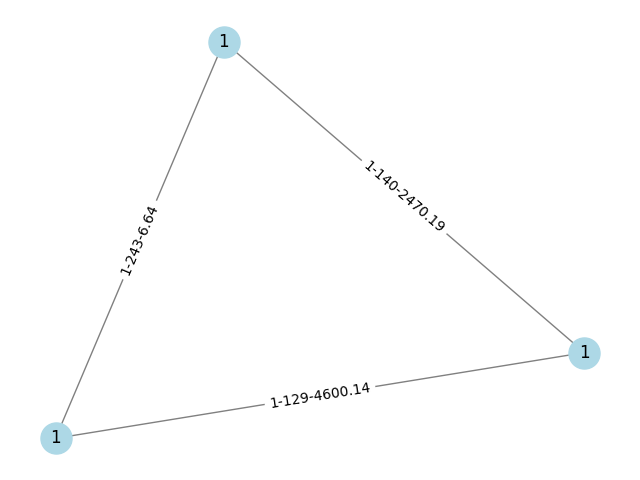
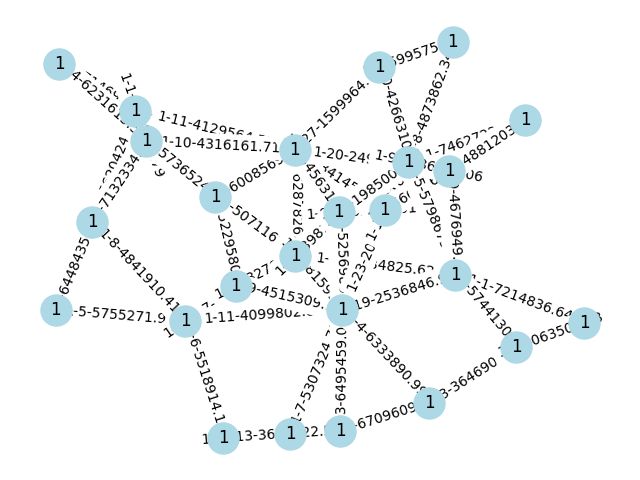
sync

diff --git a/src/optimizer/solver.py b/src/optimizer/solver.py
@@ -37,6 +37,13 @@ class LinearSolver():
                 name=f'c_{edge}'
                 )
             self.model.addConstr(self.c[edge] >= 0)
+        # add edge capacity variables
+        self.C = {}
+        for edge in self.task.topo.net.edges:
+            self.C[edge] = self.model.addVar(
+                vtype=var_type,
+                name=f'C_{edge}'
+                )
             
         pairs = self.task.pairs
         self.f = {}
@@ -74,8 +81,7 @@ class LinearSolver():
             # entanglement generation
             edge_num = self.task.topo.net.number_of_edges(i, j)
             for key in range(edge_num):
-                capacity = self.task.topo.net[i][j][key]['capacity']
-                self.I[in_pair] += self.c[(i, j, key)] * capacity
+                self.I[in_pair] += self.C[(i, j, key)] 
             
             # in-flows from other pairs
             for v in self.task.topo.net.nodes:
@@ -83,7 +89,7 @@ class LinearSolver():
                     out_pair1 = (i, v) if (i, v) in self.task.pairs else (v, i)
                     out_pair2 = (v, j) if (v, j) in self.task.pairs else (j, v)
                     self.I[in_pair] += swap_prob * 0.5 * (self.f[(out_pair1, in_pair)] + self.f[(out_pair2, in_pair)])
-    
+
         # equal contribution to swap
         for in_pair in self.task.pairs:
             i, j = in_pair
@@ -104,22 +110,23 @@ class LinearSolver():
         for pair in self.task.pairs:
             self.flow_conserv[pair] = self.I[pair] - self.O[pair]
 
-    def add_resource_constr(self, channel_mem: bool=True):
+    def add_resource_constr(self):
         m = {node: 0 for node in self.task.topo.net.nodes}
         for edge in self.task.topo.net.edges:
             i, j, k = edge
-            if channel_mem:
-                # one memory cell per channel
-                mem_ratio = 1
-            else:
-                # shared memory among channels
-                mem_ratio = self.task.topo.net[i][j][k]['capacity']
-            m[i] += self.c[edge] * mem_ratio
-            m[j] += self.c[edge] * mem_ratio
+            m[i] += self.C[edge]
+            m[j] += self.C[edge]
 
         for node in self.task.topo.net.nodes:
             self.model.addConstr(
                 self.m[node] >= m[node]
+            )
+
+        for edge in self.task.topo.net.edges:
+            i, j, k = edge
+            capacity = self.task.topo.net[i][j][k]['cap_per_channel']
+            self.model.addConstr(
+                self.C[edge] <= self.c[edge] * capacity
             )
 
     def add_budget_def(self):

diff --git a/src/network/ground.py b/src/network/ground.py
@@ -65,7 +65,7 @@ class GroundNetTopo(Topology):
             length = geodesic(
                 (self.net.nodes[src]['Latitude'], self.net.nodes[src]['Longitude']),
                 (self.net.nodes[dst]['Latitude'], self.net.nodes[dst]['Longitude'])
-            ).km
+            ).km / 100
             nx.set_edge_attributes(self.net, {(src, dst, key): {'length': length}})
 
     def set_node_capacity(self, capacity: int = 100):
@@ -87,7 +87,7 @@ class GroundNetTopo(Topology):
             length = d['length']
             prob_succ = (1 - p_loss_init) * np.power(10, - length * p_loss_length / 10)
             capacity = self.light_freq * prob_succ
-            values[(u, v, k)] = {'capacity': capacity}
+            values[(u, v, k)] = {'cap_per_channel': capacity}
         nx.set_edge_attributes(self.net, values)
 
 

diff --git a/src/utils/plot.py b/src/utils/plot.py
@@ -23,7 +23,7 @@ def plot_opt_result(topo: FusedTopo, solver: gp.Model=None, filename: str='./res
     # set capacity as the edge and node labels
     pos = nx.spring_layout(topo.net)
     edge_labels = {
-        (u, v): str(int(d['channels'])) + '-' + str(int(d['length'])) + '-' + '%.2f' % d['capacity']
+        (u, v): str(int(d['channels'])) + '-' + str(int(d['length'])) + '-' + '%.2f' % d['cap_per_channel']
                                 for u, v, k, d in topo.net.edges(data=True, keys=True)
         }
     node_labels = {node: int(topo.net.nodes[node]['capacity']) for node in topo.net.nodes}

diff --git a/src/test/test.py b/src/test/test.py
@@ -24,7 +24,7 @@ def test_topo():
 
 
 def test_solver():
-    grd = GroundNetTopo(GroundNetOpt.TEST)
+    grd = GroundNetTopo(GroundNetOpt.ATT)
     gps = ConstellationPosition(ConstellationOpt.GPS)
     topo = FusedTopo(grd, gps)
     task = QuTopoTask(topo, 1)
@@ -32,7 +32,7 @@ def test_solver():
     plot_opt_result(topo, None, filename='./result/topo.png')
 
     solver = LinearSolver(task)
-    solver.optimize(obj='budget')
+    solver.optimize(obj='flow')
     print(solver.model.objVal)
     plot_opt_result(topo, solver, filename='./result/fig.png')
 
